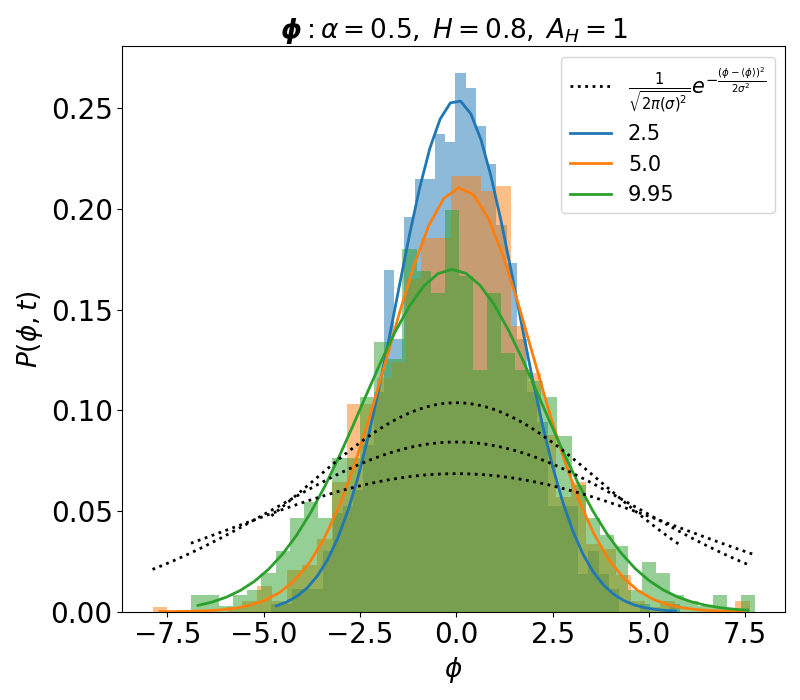
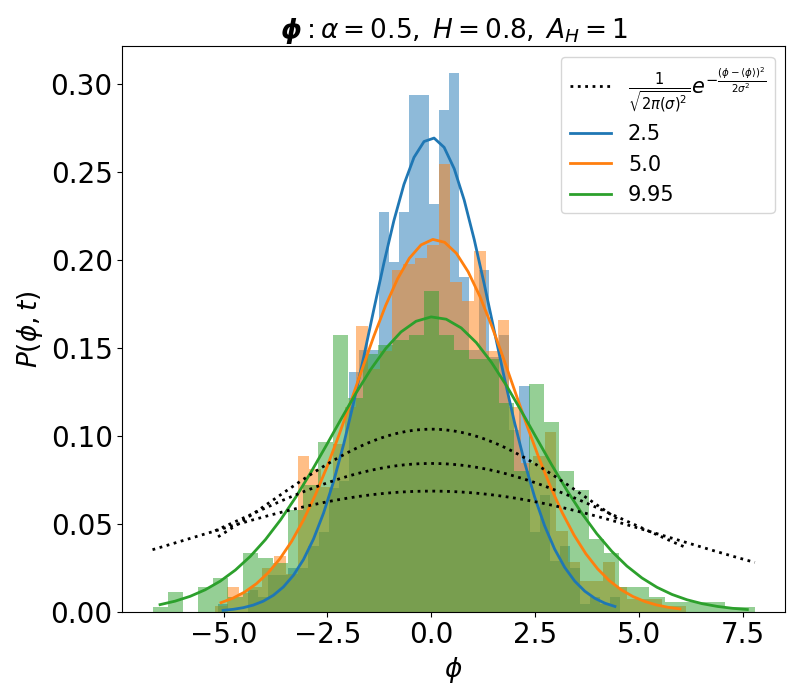
added msd an for xdirection, not matching with sim

diff --git a/src/world.py b/src/world.py
@@ -10,7 +10,7 @@ from integration import *
 # ---------- Base Class ---------- #
 class Base:
 
-    def __init__(self, realizations, set_index, alpha, H, Tf=10, h=1e-3, phi0=0, x0=0, y0=0, v0=0, eta=1):
+    def __init__(self, realizations, set_index, alpha, H, Tf=10, h=1e-3, phi0=0, x0=0, y0=0, v0=1, eta=1):
         # Common parameters
         self.realizations = realizations
         self.set_index = set_index
@@ -45,8 +45,8 @@ class Base:
         #     self.A_H = 1/(np.sqrt(2*H)*gamma(H+1/2))
 
         # Generalized diffusion coefficient (?) 
-        nominator = H*gamma(2*H)
-        denominator = (alpha+H-1)*gamma(alpha)*gamma(alpha+2*H-1)
+        nominator = self.H*gamma(2*self.H)
+        denominator = (self.alpha+self.H-1)*gamma(self.alpha)*gamma(self.alpha+2*self.H-1)
         self.D_H = nominator/denominator
 
     # --------- Noise Generator --------- #
@@ -221,14 +221,14 @@ class xDirection(Base):
     def compute_msd_an(self):
         D_H = self.D_H
         v0 = self.v0
-        eta = self.eta
         t = self.t
+        eta = self.alpha + self.H - 1
 
-        coeff = ( v0**2 / (D_H/2)**(1/eta) )
+        coeff = ( v0**2 / (eta*(D_H/2)**(1/eta)) )
         gamma1 = gammainc(1/(2*eta), D_H*t**(2*eta)/2)
         gamma2 = gammainc(1/  (eta), D_H*t**(2*eta)/2)
     
-        self.msd_an =  coeff*( gamma1*(D_H/2)**(1/eta)*t - gamma2  )
+        self.msd_an =  coeff*( gamma1*((D_H/2)**(1/eta))*t - gamma2  )
 
     def propagator(self, time_index):
         """
@@ -264,7 +264,7 @@ class xDirection(Base):
                 sum_phi += self.cnj(time - i) * np.cos(self.phi_trajectories[realization_index, i]) * self.h
             
             coeff_noise = (self.h**self.alpha) * gamma(2 - self.alpha)
-            traj[time] = traj[time-1] + coeff_noise * self.dB[time] - sum_noise + sum_phi
+            traj[time] = traj[time-1] + coeff_noise * self.dB[time] - sum_noise + self.v0*sum_phi
 
         return traj
 

diff --git a/src/plotting.py b/src/plotting.py
@@ -75,10 +75,7 @@ def plot_msd(ax, env, variable, label_an = True):
     elif variable == 'sol':
         msd = env.msd_sol
         time = env.t
-    elif variable == 'an' and env.alpha == 1:
-        time = env.t
-        msd = phi_fBm_msd(time, env.H)
-    else:
+    elif variable == 'an':
         msd = env.msd_an
         time = env.t
     
